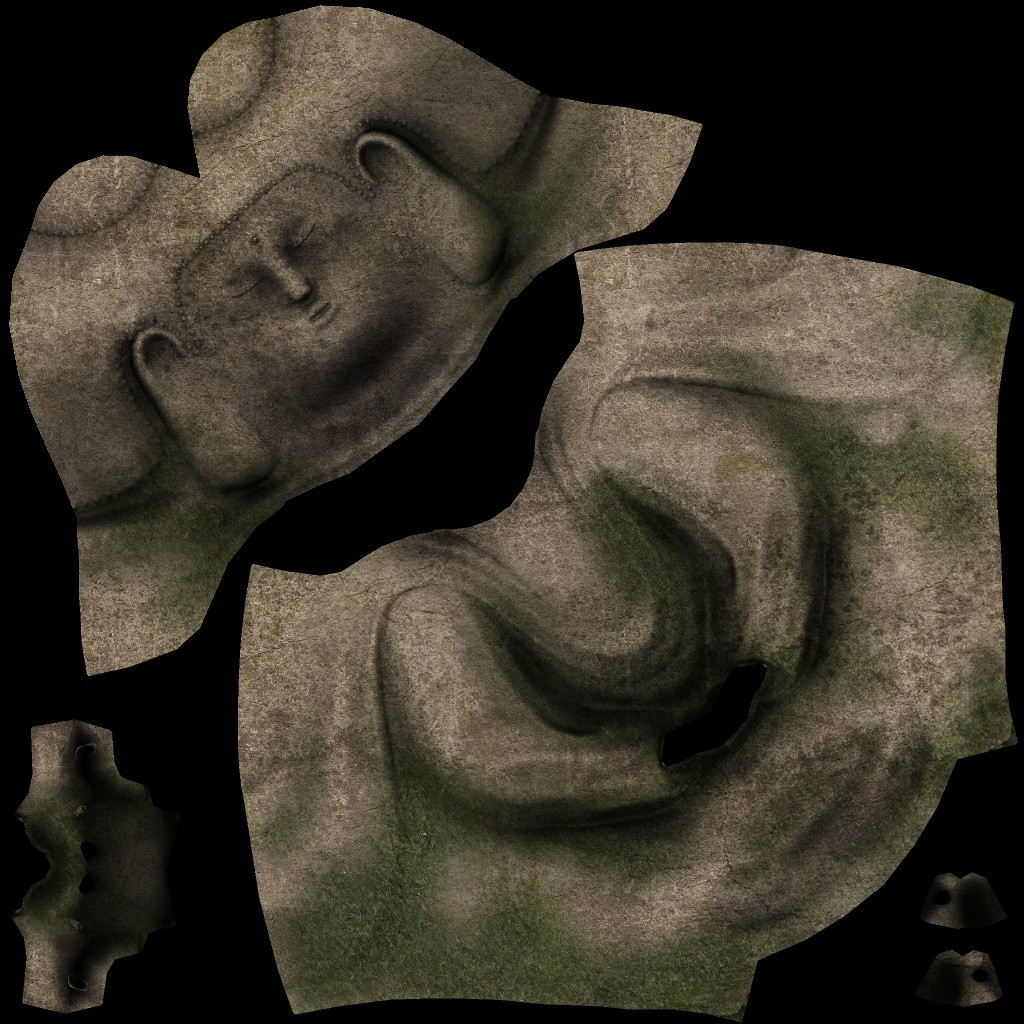
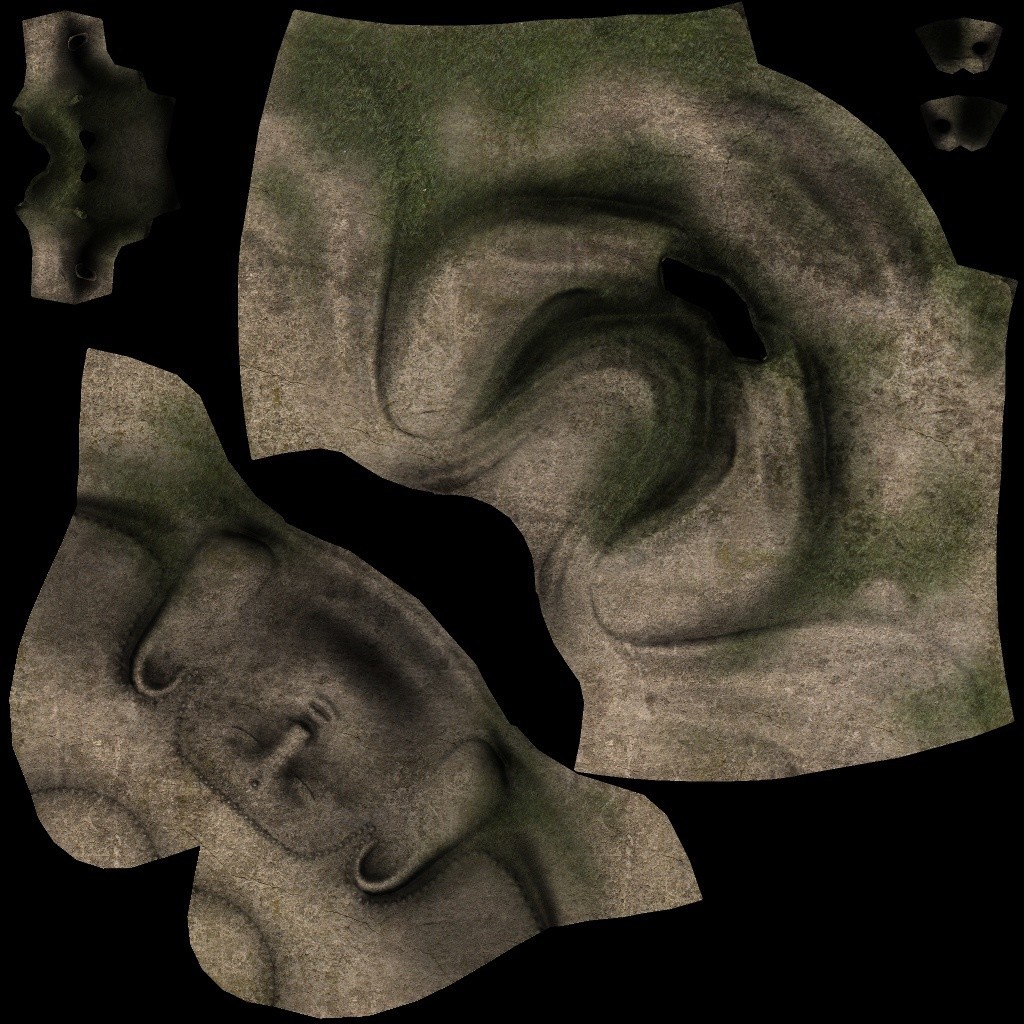
obj loading working with profided texture

diff --git a/DrawnObject.go b/DrawnObject.go
@@ -80,10 +80,8 @@ func (d *DrawnObject) Draw() {
 	gl.UniformMatrix4fv(d.MVPID, 1, false, &camera.MVP[0])
 	gl.UniformMatrix4fv(d.ModelMatrixID, 1, false, &modelMatrix[0])
 	gl.UniformMatrix4fv(d.NormalMatrixID, 1, false, &normalMatrix[0])
-	// gl.Uniform4f(d.ColorID, d.Color.R, d.Color.G, d.Color.B, d.Color.A)
 
 	for _, m := range d.Mesh.MaterialGroups {
-		// fmt.Println(m.Material.Name, m.Material.Diffuse)
 		gl.Uniform4f(d.ColorID, m.Material.Diffuse[0], m.Material.Diffuse[1], m.Material.Diffuse[2], 1)
 		gl.BindVertexArray(m.VAO)
 		gl.Enable(gl.TEXTURE_2D)

diff --git a/objLoader.go b/objLoader.go
@@ -61,6 +61,7 @@ func buildVAOforMatGroup(group *MaterialGroup, vertexs, uvs, normals [][]float32
 }
 
 // LoadObject : opens a wavefront file and parses it into ObjData
+// TODO: Fix  UV coords, they are upside down...
 func LoadObject(filename string) *Mesh {
 	file, ferr := os.Open(filename)
 	EoE("Error Opening File", ferr)
@@ -89,7 +90,6 @@ func LoadObject(filename string) *Mesh {
 		switch fields[0] {
 		case "mtllib":
 			materialGroups = LoadMaterials(fields[1])
-			// fmt.Println(materialGroups)
 		case "usemtl":
 			currentGroup = fields[1]
 		case "v":
